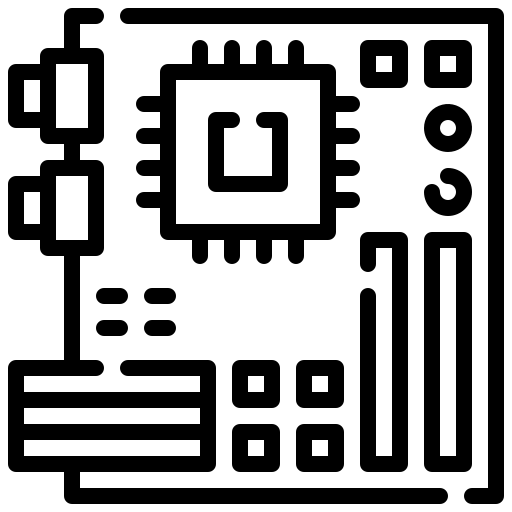
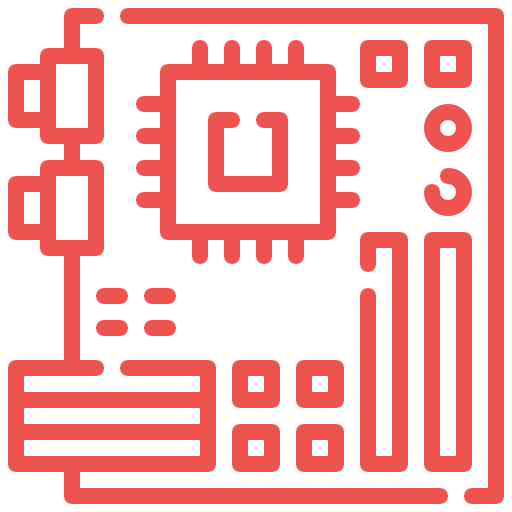
ui changes
ikon renkleri kırmızı oldu profil resmi düzeltildi

diff --git a/lib/pages/Home_page.dart b/lib/pages/Home_page.dart
@@ -116,41 +116,51 @@ class _HomePageState extends State<HomePage> with TickerProviderStateMixin {
 
   // Fetch current user name from Firestore
   Future<void> _getUserProfile() async {
-    try {
-      final user = FirebaseAuth.instance.currentUser;
-      if (user != null) {
-        // Try to get user profile from Firestore
-        final userDoc = await FirebaseFirestore.instance
-            .collection('users')
-            .doc(user.uid)
-            .get();
-        
-        if (userDoc.exists) {
-          if (mounted) {
-            setState(() {
-              // Get name from Firestore
-              _userName = userDoc.data()?['name'] ?? 'Guest';
-              
-              // Get profile picture URL from Firestore
-              _userProfilePicture = userDoc.data()?['profilePicture'];
-            });
-          }
-        } else if (user.displayName != null && user.displayName!.isNotEmpty) {
-          // Fallback to Firebase Auth display name
-          if (mounted) {
-            setState(() {
-              _userName = user.displayName!;
-              // Try to get photoURL from Firebase Auth
-              _userProfilePicture = user.photoURL;
-            });
-          }
-        }
-      }
-    } catch (e) {
-      print('Error fetching user profile: $e');
-    }
+  final user = FirebaseAuth.instance.currentUser;
+  if (user == null) {
+    setState(() {
+      _userName = "Guest";
+      _userProfilePicture = null;
+    });
+    return;
   }
 
+  try {
+    // Get user data from Firestore
+    final userDoc = await FirebaseFirestore.instance
+        .collection('users')
+        .doc(user.uid)
+        .get();
+
+    // Get profile image URL from Firebase Storage
+    final storageRef = FirebaseStorage.instance
+        .ref()
+        .child('profile_images/${user.uid}.jpg');
+    
+    String imageUrl;
+    try {
+      imageUrl = await storageRef.getDownloadURL();
+    } catch (e) {
+      print('Error getting profile image: $e');
+      imageUrl = ''; // Set empty if image doesn't exist
+    }
+
+    if (mounted) {
+      setState(() {
+        _userName = userDoc.data()?['name'] ?? 'User';
+        _userProfilePicture = imageUrl.isNotEmpty ? imageUrl : null;
+      });
+    }
+  } catch (e) {
+    print('Error fetching user profile: $e');
+    if (mounted) {
+      setState(() {
+        _userName = "User";
+        _userProfilePicture = null;
+      });
+    }
+  }
+}
   void _initializeAnimationControllers() {
     // Safely dispose of any existing controllers
     _animationControllers.forEach((_, controller) {
@@ -532,104 +542,67 @@ class _HomePageState extends State<HomePage> with TickerProviderStateMixin {
                         crossAxisAlignment: CrossAxisAlignment.center,
                         children: [
                           // Welcome section with user name and person icon
-                          Container(
-    padding: EdgeInsets.all(16.0),
-    margin: EdgeInsets.all(10.0),
-    decoration: BoxDecoration(
-      gradient: LinearGradient(
-        colors: [Colors.red.shade300, Colors.white],
-        begin: Alignment.topLeft,
-        end: Alignment.bottomRight,
+                         Container(
+  padding: EdgeInsets.all(16.0),
+  margin: EdgeInsets.all(10.0),
+  decoration: BoxDecoration(
+    gradient: LinearGradient(
+      colors: [Colors.red.shade300, Colors.white],
+      begin: Alignment.topLeft,
+      end: Alignment.bottomRight,
+    ),
+    borderRadius: BorderRadius.circular(12),
+    boxShadow: [
+      BoxShadow(
+        color: Colors.black12,
+        blurRadius: 5,
+        offset: Offset(0, 2),
       ),
-      borderRadius: BorderRadius.circular(12),
-      boxShadow: [
-        BoxShadow(
-          color: Colors.black12,
-          blurRadius: 5,
-          offset: Offset(0, 2),
-        ),
-      ],
-    ),
-    child: Row(
-      children: [
-        // Replace the Icon with a CircleAvatar that shows the profile picture
-        Container(
-          width: 60,
-          height: 60,
-          decoration: BoxDecoration(
-            shape: BoxShape.circle,
-            color: Colors.red.shade300,
-            boxShadow: [
-              BoxShadow(
-                color: Colors.black12,
-                blurRadius: 5,
-                offset: Offset(0, 2),
-              ),
-            ],
-          ),
-          child: _userProfilePicture != null
-              ? ClipRRect(
-                  borderRadius: BorderRadius.circular(30),
-                  child: Image.network(
-                    _userProfilePicture!,
-                    width: 60,
-                    height: 60,
-                    fit: BoxFit.cover,
-                    errorBuilder: (context, error, stackTrace) {
-                      // Fallback to default icon if image fails to load
-                      return Icon(
-                        Icons.person,
-                        size: 36,
-                        color: Colors.white,
-                      );
-                    },
-                    loadingBuilder: (context, child, loadingProgress) {
-                      if (loadingProgress == null) return child;
-                      return Center(
-                        child: CircularProgressIndicator(
-                          value: loadingProgress.expectedTotalBytes != null
-                              ? loadingProgress.cumulativeBytesLoaded /
-                                  loadingProgress.expectedTotalBytes!
-                              : null,
-                          color: Colors.white,
-                          strokeWidth: 2.0,
-                        ),
-                      );
-                    },
-                  ),
-                )
-              : Icon(
-                  Icons.person,
-                  size: 36,
-                  color: Colors.white,
-                ),
-        ),
-        SizedBox(width: 16),
-        Expanded(
-          child: Column(
-            crossAxisAlignment: CrossAxisAlignment.start,
-            children: [
-              Text(
-                "Welcome",
-                style: TextStyle(
-                  fontSize: 16,
-                  color: Colors.black54,
-                ),
-              ),
-              Text(
-                _userName,
-                style: TextStyle(
-                  fontSize: 24,
-                  fontWeight: FontWeight.bold,
-                  color: Colors.black87,
-                ),
-              ),
-            ],
-          ),
-        ),
-      ],
-    ),
+    ],
   ),
+  child: Row(
+    children: [
+      // CircleAvatar to display the profile picture
+     CircleAvatar(
+  radius: 30,
+  backgroundColor: Colors.red.shade300,
+  backgroundImage: _userProfilePicture != null 
+      ? NetworkImage(_userProfilePicture!)
+      : null,
+  child: _userProfilePicture == null
+      ? Icon(
+          Icons.person,
+          size: 36,
+          color: Colors.white,
+        )
+      : null,
+),
+      SizedBox(width: 16),
+      Expanded(
+        child: Column(
+          crossAxisAlignment: CrossAxisAlignment.start,
+          children: [
+            Text(
+              "Welcome",
+              style: TextStyle(
+                fontSize: 16,
+                color: Colors.black54,
+              ),
+            ),
+            Text(
+              _userName,
+              style: TextStyle(
+                fontSize: 24,
+                fontWeight: FontWeight.bold,
+                color: Colors.black87,
+              ),
+            ),
+          ],
+        ),
+      ),
+    ],
+  ),
+),
                           _buildBannerSection(),
                           SizedBox(height: 10),
                           _buildCategoriesHeader(),
